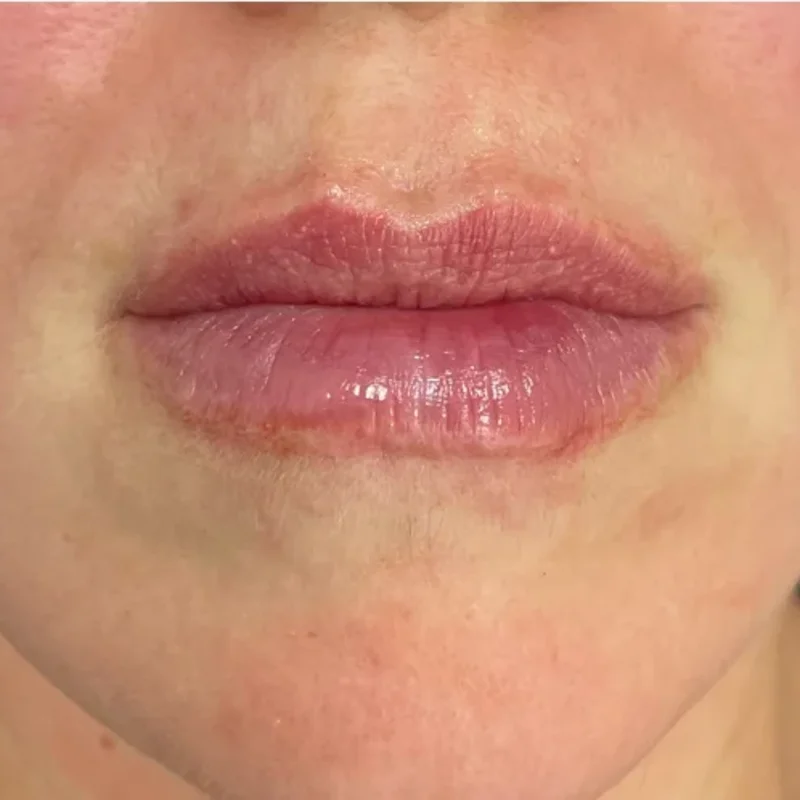
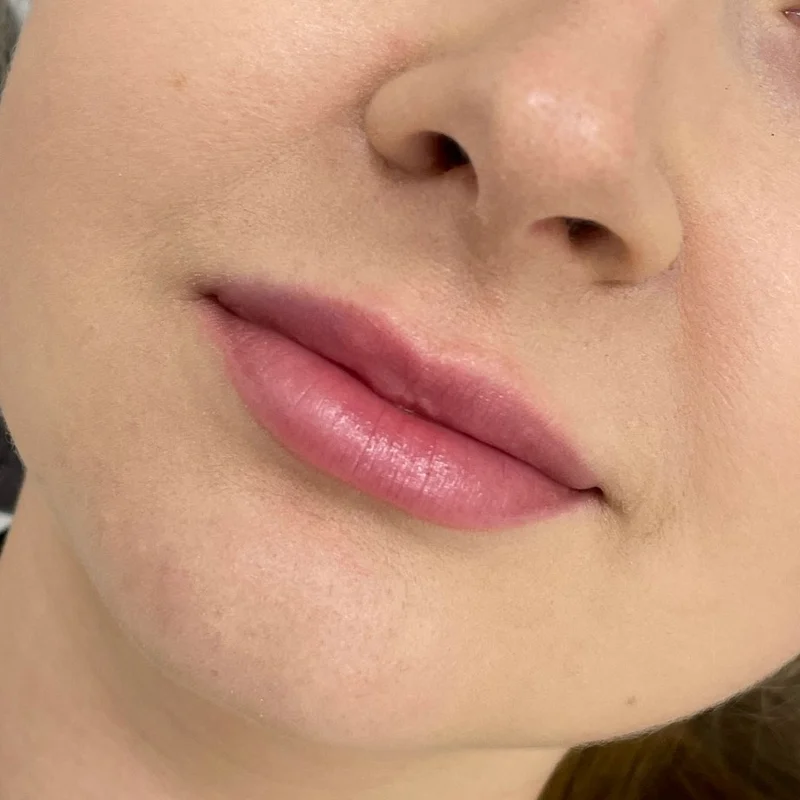
Зморшки: кейси без повторів (6 різних пацієнток, з Dropbox «Кейси анті ейдж»), гарні губи в «Контурній пластиці», нові фото «Природний результат», «Біоревіталізація», крок «Контрольний огляд»
Claude-Session: https://claude.ai/code/session_01X15HWJBJ7jGXexuYSc3gYu

diff --git a/app/services/site_landing.py b/app/services/site_landing.py
@@ -525,7 +525,7 @@ ZMORSHKY = {
     "facts": [("Процедури проводить лікар", "Лікар-дерматолог з досвідом в естетичній медицині, а не майстер після курсів",
                "media:doc-kolgan.webp|f-doctors.webp", "center 12%"),
               ("Діагностика OBSERV 520x", "Видно якість шкіри, глибину зморшок і пігментацію ще до процедури", "f-diag.webp"),
-              ("Природний результат", "Мінімально достатні дози й обʼєми — без перекорекції", "zm-pop.webp", "center 30%"),
+              ("Природний результат", "Мінімально достатні дози й обʼєми — без перекорекції", "zm-c1-2.webp", "center 30%"),
               ("Сертифіковані препарати", "Офіційне постачання, оригінальні упаковки, відкриваємо при вас", "media:inject-hero.webp|f-med.webp")],
     "pain": {"title": "Знайомо?",
              "items": ["Зморшки на лобі й між бровами — обличчя здається втомленим або сердитим",
@@ -553,10 +553,11 @@ ZMORSHKY = {
               "alt": "корекції",
               "items": [{"t": "Зморшки на лобі", "d": "Ботулінотерапія · результат через 2 тижні", "ba": ["zm-f1-1.webp", "zm-f1-2.webp"], "v": True},
                         {"t": "Губи: обʼєм і чіткий контур", "d": "Контурна пластика · одразу після процедури", "ba": ["zm-l1-1.webp", "zm-l1-2.webp"], "v": True},
-                        {"t": "Губи: природний обʼєм", "d": "Контурна пластика · вигляд збоку", "ba": ["zm-l2-1.webp", "zm-l2-2.webp"], "v": True},
-                        {"t": "Губи: повернули обʼєм", "d": "Контурна пластика · вікові зміни", "ba": ["zm-l3-1.webp", "zm-l3-2.webp"], "v": True},
-                        {"t": "Губи й кутики рота", "d": "Контурна пластика · вікові зміни", "ba": ["zm-l4-1.webp", "zm-l4-2.webp"], "v": True},
-                                                {"t": "Зморшки між бровами", "d": "Ботулінотерапія · обличчя без «сердитого» виразу", "crop": "bt11"}],
+                        {"t": "Губи: вікові зміни", "d": "Контурна пластика · повернули обʼєм і контур", "ba": ["zm-l3-1.webp", "zm-l3-2.webp"], "v": True},
+                        {"t": "Комплексне омолодження", "d": "Ботулінотерапія, контурна пластика й догляд · курс", "ba": ["zm-c1-1.webp", "zm-c1-2.webp"]},
+                        {"t": "Лоб і відкритий погляд", "d": "Ботулінотерапія · брови вище, зморшки розгладжені", "ba": ["zm-e1-1.webp", "zm-e1-2.webp"], "v": True},
+                        {"t": "Овал і контур обличчя", "d": "Контурна пластика · чіткіший кут нижньої щелепи", "ba": ["zm-o1-1.webp", "zm-o1-2.webp"], "v": True}],
+
               "note": "Фото опубліковано за згодою пацієнтів. Результат індивідуальний і залежить від анатомії, віку й стану шкіри."},
     "process": {"title": "Як проходить корекція",
                 "text": "Від консультації до контрольного огляду.",
@@ -566,7 +567,7 @@ ZMORSHKY = {
                           ("Контрольний огляд", "Через 2 тижні: лікар оцінює результат і за потреби робить корекцію."),
                           ("Підтримка", "Домашній догляд і повторні процедури — за графіком, який склав лікар.")],
                 "icons": ["scan", "plan", "care", "check", "loop"],
-                "pics": ["f-diag.webp", "f-plan.webp", "media:inject-hero.webp|f-doctors.webp", "ba-wrinkles-2.webp", "sk-home.webp"]},
+                "pics": ["f-diag.webp", "f-plan.webp", "media:inject-hero.webp|f-doctors.webp", "f-doctors.webp", "sk-home.webp"]},
     "pop": {"title": "Зморшки стали помітнішими?", "badge": "",
             "text": "Залиште номер — адміністратор запише вас до лікаря. Підберемо корекцію, яка виглядатиме природно.",
             "btn": "Записатися", "img": "zm-pop.webp"},
